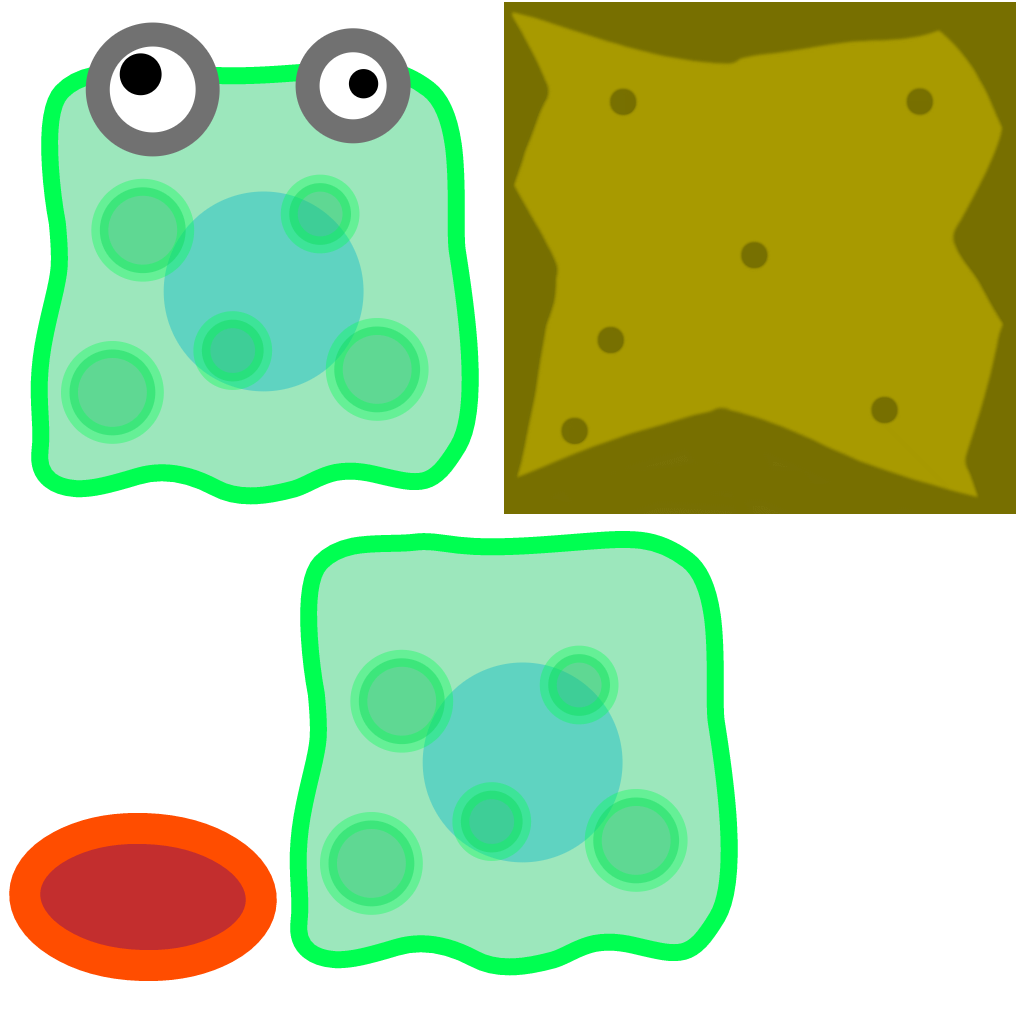
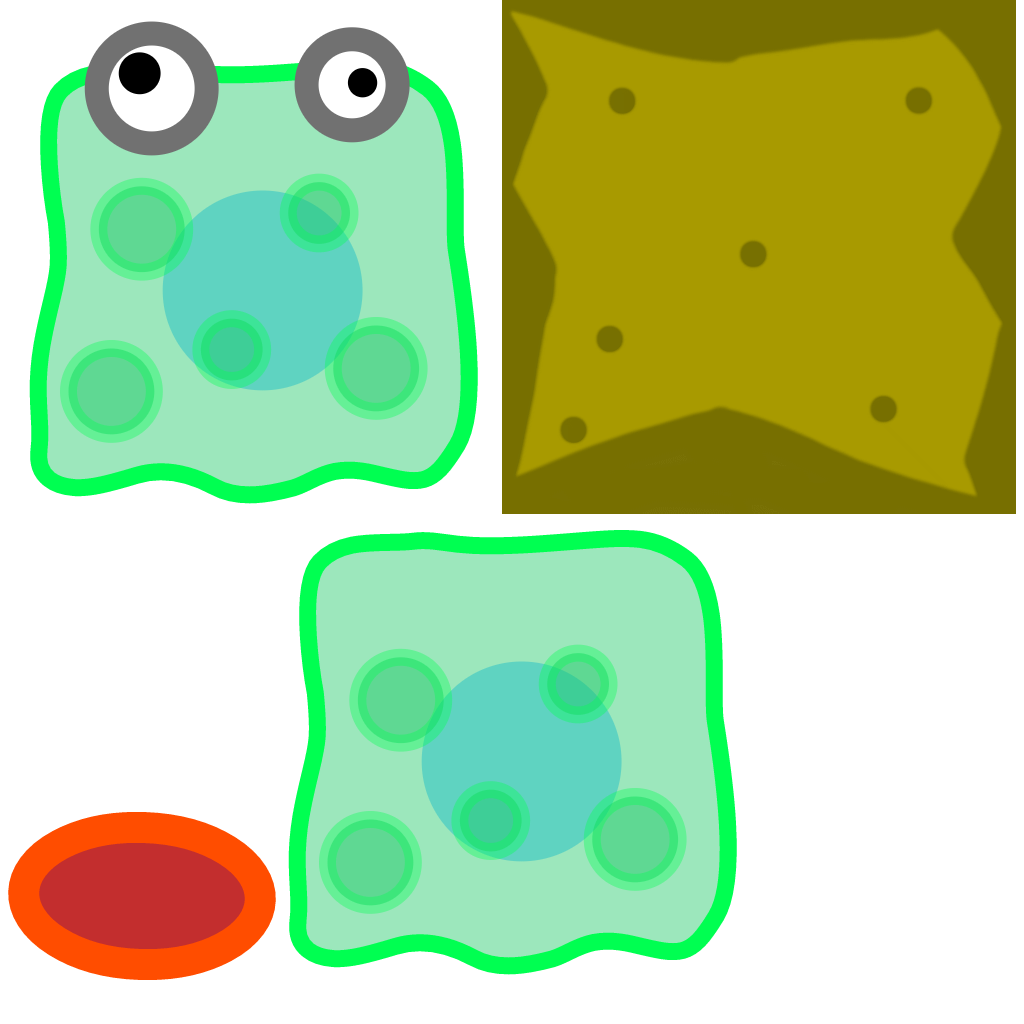
Dynamic atlas

diff --git a/core/src/com/whizzpered/bubbleshooter/engine/graphics/Sprite.kt b/core/src/com/whizzpered/bubbleshooter/engine/graphics/Sprite.kt
@@ -1,7 +1,10 @@
 package com.whizzpered.bubbleshooter.engine.graphics
 
+import com.badlogic.gdx.Gdx
 import com.badlogic.gdx.graphics.Color
+import com.badlogic.gdx.graphics.g2d.TextureAtlas
 import com.whizzpered.bubbleshooter.engine.handler.Main
+import kotlin.concurrent.thread
 
 class Sprite internal constructor(val atlas: Atlas, val texture: String, var color: Color) {
     var x = 0f
@@ -20,15 +23,18 @@ class Sprite internal constructor(val atlas: Atlas, val texture: String, var col
     }
 
     private var tryed = false
-    private var quality = Atlas.Quality.HIGH
     private var libgdxsprite: com.badlogic.gdx.graphics.g2d.Sprite? = null
+    private var handler: Atlas.AtlasHandler? = null
 
     fun render() {
         if (!Main.isRenderThread())
             return
-        if (!tryed) {
+        if (!tryed || atlas.handler != handler) {
+            handler = atlas.handler
+            val handler = handler
             tryed = true
-            libgdxsprite = Main.createSprite(texture)
+            if (handler != null)
+                libgdxsprite = handler.atlas.createSprite(texture.replace("/", "__"))
         }
         val v = libgdxsprite
         if (v != null) {
@@ -48,13 +54,48 @@ class Sprite internal constructor(val atlas: Atlas, val texture: String, var col
 }
 
 class Atlas {
-    var quality = Quality.HIGH
 
-    enum class Quality(val atlasPath: String, val scale: Float, val antialiasing: Boolean = true) {
-        HIGH("high_quality_atlas", 1f),
-        MEDIUM("medium_quality_atlas", .5f),
-        LOW("low_quality_atlas", .25f, false)
+    enum class Quality(val scale: Float, val antialiasing: Boolean = true) {
+        HIGH(1f),
+        MEDIUM(.5f),
+        LOW(.25f, false),
+        CALCULATOR(.125f, false);
+
+        val atlasPath = this.name.toLowerCase() + "_quality_atlas"
     }
 
-    fun getSrpite(texture: String, color: Color = Color.WHITE) = Sprite(this, texture, color)
+    private var actualQuality = Quality.values().maxBy { it.scale } ?: Quality.values()[0]
+
+    internal @Volatile var handler: AtlasHandler = AtlasHandler(quality)
+
+    internal class AtlasHandler(val quality: Quality) {
+        val atlas: TextureAtlas
+        get() {
+            if (realAtlas == null)
+                realAtlas = TextureAtlas(Gdx.files.internal(quality.atlasPath + ".atlas"))
+            val r = realAtlas
+            return if (r != null) r else
+                throw NullPointerException("Expression 'realAtlas' must not be null")
+        }
+
+        private var realAtlas: TextureAtlas? = null
+    }
+
+    var quality: Quality
+        get() = actualQuality
+        set(value) = update(value)
+
+    private fun update(q: Quality) {
+        if (q != actualQuality) {
+            actualQuality = q
+            thread {
+                val h = handler
+                handler = AtlasHandler(q)
+                h.atlas.dispose()
+            }
+        }
+    }
+
+    fun createSprite(texture: String, color: Color = Color.WHITE): Sprite = Sprite(this, texture, color)
+
 }

diff --git a/core/src/com/whizzpered/bubbleshooter/engine/graphics/Models.kt b/core/src/com/whizzpered/bubbleshooter/engine/graphics/Models.kt
@@ -1,7 +1,6 @@
 package com.whizzpered.bubbleshooter.engine.graphics
 
 import com.badlogic.gdx.graphics.Color
-import com.badlogic.gdx.graphics.g2d.Sprite
 import com.badlogic.gdx.math.MathUtils
 import com.whizzpered.bubbleshooter.engine.handler.Main
 import com.whizzpered.bubbleshooter.utils.sin
@@ -54,7 +53,7 @@ object emptyShape : Shape() {
 
 class Billboard : Shape {
     val texture: String
-    private var libgdxsprite: Sprite? = null
+    private val sprite: Sprite
     var width: Float
     var height: Float
 
@@ -64,18 +63,21 @@ class Billboard : Shape {
         this.texture = texture
         this.width = width
         this.height = height
+        sprite = Main.atlas.createSprite(texture)
     }
 
     constructor(texture: String, width: Float = 1.0f, height: Float = 1.0f, p: Point3D) : super(p) {
         this.texture = texture
         this.width = width
         this.height = height
+        sprite = Main.atlas.createSprite(texture)
     }
 
     constructor(texture: String, width: Float = 1.0f, height: Float = 1.0f, p: MutablePoint3D) : super(p) {
         this.texture = texture
         this.width = width
         this.height = height
+        sprite = Main.atlas.createSprite(texture)
     }
 
     constructor(texture: String, width: Float = 1.0f, height: Float = 1.0f,
@@ -83,26 +85,16 @@ class Billboard : Shape {
         this.texture = texture
         this.width = width
         this.height = height
+        sprite = Main.atlas.createSprite(texture)
     }
 
     override fun render(x: Float, y: Float, z: Float, angle: Float) {
-        if (!Main.isRenderThread())
-            return
-
-        if (!tryed) {
-            tryed = true
-            libgdxsprite = Main.createSprite(texture)
-        }
-        val v = libgdxsprite
-        if (v != null) {
-            val p = project(angle)
-            v.x = x + p.x - width / 2 * (1 + deformation * sin(angle))
-            v.y = z + y + p.y - height / 2
-            v.setSize(width * (1 + deformation * sin(angle)), height)
-            v.draw(Main.batch)
-        }
+        val p = project(angle)
+        sprite.x = x + p.x * (1 + deformation * sin(angle))
+        sprite.y = z + y + p.y
+        sprite.setSize(width * (1 + deformation * sin(angle)), height)
+        sprite.render()
     }
-
 }
 
 class Circle : Shape {

diff --git a/core/src/com/whizzpered/bubbleshooter/engine/handler/Main.kt b/core/src/com/whizzpered/bubbleshooter/engine/handler/Main.kt
@@ -8,6 +8,7 @@ import com.badlogic.gdx.graphics.Texture
 import com.badlogic.gdx.graphics.g2d.Sprite
 import com.badlogic.gdx.graphics.g2d.SpriteBatch
 import com.badlogic.gdx.graphics.g2d.TextureAtlas
+import com.whizzpered.bubbleshooter.engine.graphics.Atlas
 import com.whizzpered.bubbleshooter.game.Game
 
 object EMPTY_GAME : AbstractGame() {
@@ -39,6 +40,8 @@ object Main : ApplicationAdapter() {
             return delta / 1000f
         }
     }
+
+    var atlas = Atlas()
 
     var game: AbstractGame = Game
 
@@ -87,7 +90,6 @@ object Main : ApplicationAdapter() {
 
     internal var paused = false
     internal var dispose = false
-    internal var atlas: TextureAtlas? = null
     var batch: SpriteBatch? = null
         internal set
     var img: Texture? = null
@@ -103,12 +105,6 @@ object Main : ApplicationAdapter() {
         camera = OrthographicCamera(16f, 12f)
         guicamera = OrthographicCamera(16f, 12f)
         resume()
-
-    }
-
-    fun createSprite(name: String): Sprite? {
-        val a = atlas
-        return atlas?.createSprite(name)
     }
 
     val renderDelta = Delta()
@@ -146,8 +142,17 @@ object Main : ApplicationAdapter() {
             batch?.begin()
             Game.gui.render(delta)
             batch?.end()
-
         }
+
+        if (Input.keyboard[Key.K])
+            atlas.quality = Atlas.Quality.CALCULATOR
+        if (Input.keyboard[Key.L])
+            atlas.quality = Atlas.Quality.LOW
+        if (Input.keyboard[Key.SEMICOLON])
+            atlas.quality = Atlas.Quality.MEDIUM
+        if (Input.keyboard[Key.APOSTROPHE])
+            atlas.quality = Atlas.Quality.HIGH
+
         if (Input.keyboard[Key.MAC_COMMAND + Key.W])
             Gdx.app.exit()
     }

diff --git a/core/src/com/whizzpered/bubbleshooter/engine/memory/Lists.kt b/core/src/com/whizzpered/bubbleshooter/engine/memory/Lists.kt
@@ -1,9 +1,5 @@
 package com.whizzpered.bubbleshooter.engine.memory
 
-/**
- * Created by phdeh on 03/03/2017.
- */
-
 fun <T, G> makeMutableListFrom(collection: Iterable<G>, convertor: (G) -> T): MutableList<T> {
     val m = mutableListOf<T>()
     collection.forEach { m += convertor(it) }
@@ -21,3 +17,41 @@ fun <T, G> makeMutableListFrom(collection: Array<G>, convertor: (G) -> T): Mutab
 
 fun <T, G> makeListFrom(collection: Array<G>, convertor: (G) -> T): List<T> =
         makeMutableListFrom(collection, convertor).toList()
+
+fun <T, G : Comparable<G>> Iterable<T>.maxBy(by: (T) -> G): T? {
+    val i = this.iterator()
+    if (!i.hasNext()) {
+        return null
+    } else {
+        var g = i.next()
+        var u = by(g)
+        while (i.hasNext()) {
+            val f = i.next()
+            val v = by(f)
+            if ((u == null) || (v != null && v > u)) {
+                g = f
+                u = v
+            }
+        }
+        return g
+    }
+}
+
+fun <T, G : Comparable<G>> Iterable<T>.minBy(by: (T) -> G): T? {
+    val i = this.iterator()
+    if (!i.hasNext()) {
+        return null
+    } else {
+        var g = i.next()
+        var u = by(g)
+        while (i.hasNext()) {
+            val f = i.next()
+            val v = by(f)
+            if ((u == null) || (v != null && v < u)) {
+                g = f
+                u = v
+            }
+        }
+        return g
+    }
+}

diff --git a/core/src/com/whizzpered/bubbleshooter/engine/gui/Picture.kt b/core/src/com/whizzpered/bubbleshooter/engine/gui/Picture.kt
@@ -1,31 +1,19 @@
 package com.whizzpered.bubbleshooter.engine.gui
 
-import com.badlogic.gdx.graphics.g2d.Sprite
 import com.whizzpered.bubbleshooter.engine.handler.Main
 
 class Picture(val texture: String, position: Position, size: Size) : Widget(position, size) {
-    private var libgdxsprite: Sprite? = null
-    private var tryed = false
+    private val sprite = Main.atlas.createSprite(texture)
 
     override fun render(delta: Float) {
-        if (!Main.isRenderThread())
-            return
+        val x = currentX
+        val y = currentY
+        val w = currentWidth
+        val h = currentHeight
 
-        if (!tryed) {
-            tryed = true
-            libgdxsprite = Main.createSprite(texture)
-        }
-        val v = libgdxsprite
-        if (v != null) {
-            val x = currentX
-            val y = currentY
-            val w = currentWidth
-            val h = currentHeight
-
-            v.setPosition(x - w / 2, y - h / 2)
-            v.setSize(w, h)
-            v.draw(Main.batch)
-        }
+        sprite.setPosition(x, y)
+        sprite.setSize(w, h)
+        sprite.render()
     }
 
     override fun act(delta: Float) {

diff --git a/core/src/com/whizzpered/bubbleshooter/engine/terrain/Tile.kt b/core/src/com/whizzpered/bubbleshooter/engine/terrain/Tile.kt
@@ -1,23 +1,15 @@
 package com.whizzpered.bubbleshooter.engine.terrain
 
-import com.badlogic.gdx.graphics.g2d.Sprite
 import com.whizzpered.bubbleshooter.engine.handler.Main
 
 open class Tile(val passable: Boolean, val texture: String) {
     val size = 1f
     private var tryed = false
-    private var libgdxsprite: Sprite? = null
+    private val sprite = Main.atlas.createSprite(texture)
 
     open fun render(x: Int, y: Int, terrain: Terrain) {
-        if (!tryed) {
-            tryed = true
-            libgdxsprite = Main.createSprite(texture)
-        }
-        val v = libgdxsprite
-        if (v != null) {
-            v.setPosition(x * size, y * size)
-            v.setSize(size, size)
-            v.draw(Main.batch)
-        }
+        sprite.setPosition(x * size, y * size)
+        sprite.setSize(size, size)
+        sprite.render()
     }
 }

diff --git a/desktop/src/com/whizzpered/bubbleshooter/desktop/AtlasProcessor.kt b/desktop/src/com/whizzpered/bubbleshooter/desktop/AtlasProcessor.kt
@@ -123,6 +123,10 @@ class AtlasProcessor {
         if (antialiasing) {
             settings.filterMag = Texture.TextureFilter.Linear
             settings.filterMin = Texture.TextureFilter.MipMap
+            settings.duplicatePadding = true
+        } else {
+            settings.paddingX = 0
+            settings.paddingY = 0
         }
         TexturePacker.process(
                 settings,
@@ -130,6 +134,7 @@ class AtlasProcessor {
                 normalizePath("../assets"),
                 "$name"
         )
+        delete(dir)
     }
 
     private fun readListFromFile(file: File): String {

diff --git a/core/src/com/whizzpered/bubbleshooter/game/creatures/Hero.kt b/core/src/com/whizzpered/bubbleshooter/game/creatures/Hero.kt
@@ -18,10 +18,10 @@ import java.lang.Math.abs
 private val model = Model {
     it += Billboard("hero/body", 1f, 1.2f, 0f, 0f, .6f)
     it += Billboard("hero/month", .1f, .1f, .3f, 0f, .6f)
-    var eye1 = Billboard("hero/eye", .15f, .3f, .3f, .2f, .75f)
+    var eye1 = Billboard("hero/eye", .15f, .3f, .15f, .1f, .75f)
     eye1.deformation = -1f
     it += eye1
-    var eye2 = Billboard("hero/eye", .15f, .3f, .3f, -.2f, .75f)
+    var eye2 = Billboard("hero/eye", .15f, .3f, .15f, -.1f, .75f)
     eye2.deformation = -1f
     it += eye2
     var cap = Billboard("hero/cap", .6f, .5f, -.2f, 0f, .95f)

diff --git a/desktop/src/com/whizzpered/bubbleshooter/desktop/DesktopLauncher.kt b/desktop/src/com/whizzpered/bubbleshooter/desktop/DesktopLauncher.kt
@@ -7,7 +7,7 @@ import com.whizzpered.bubbleshooter.engine.handler.Main
 object DesktopLauncher {
     @SuppressWarnings
     @JvmStatic fun main(arg: Array<String>) {
-        val ap = AtlasProcessor()
+        AtlasProcessor()
 
         val config = LwjglApplicationConfiguration()
         config.useHDPI = true
